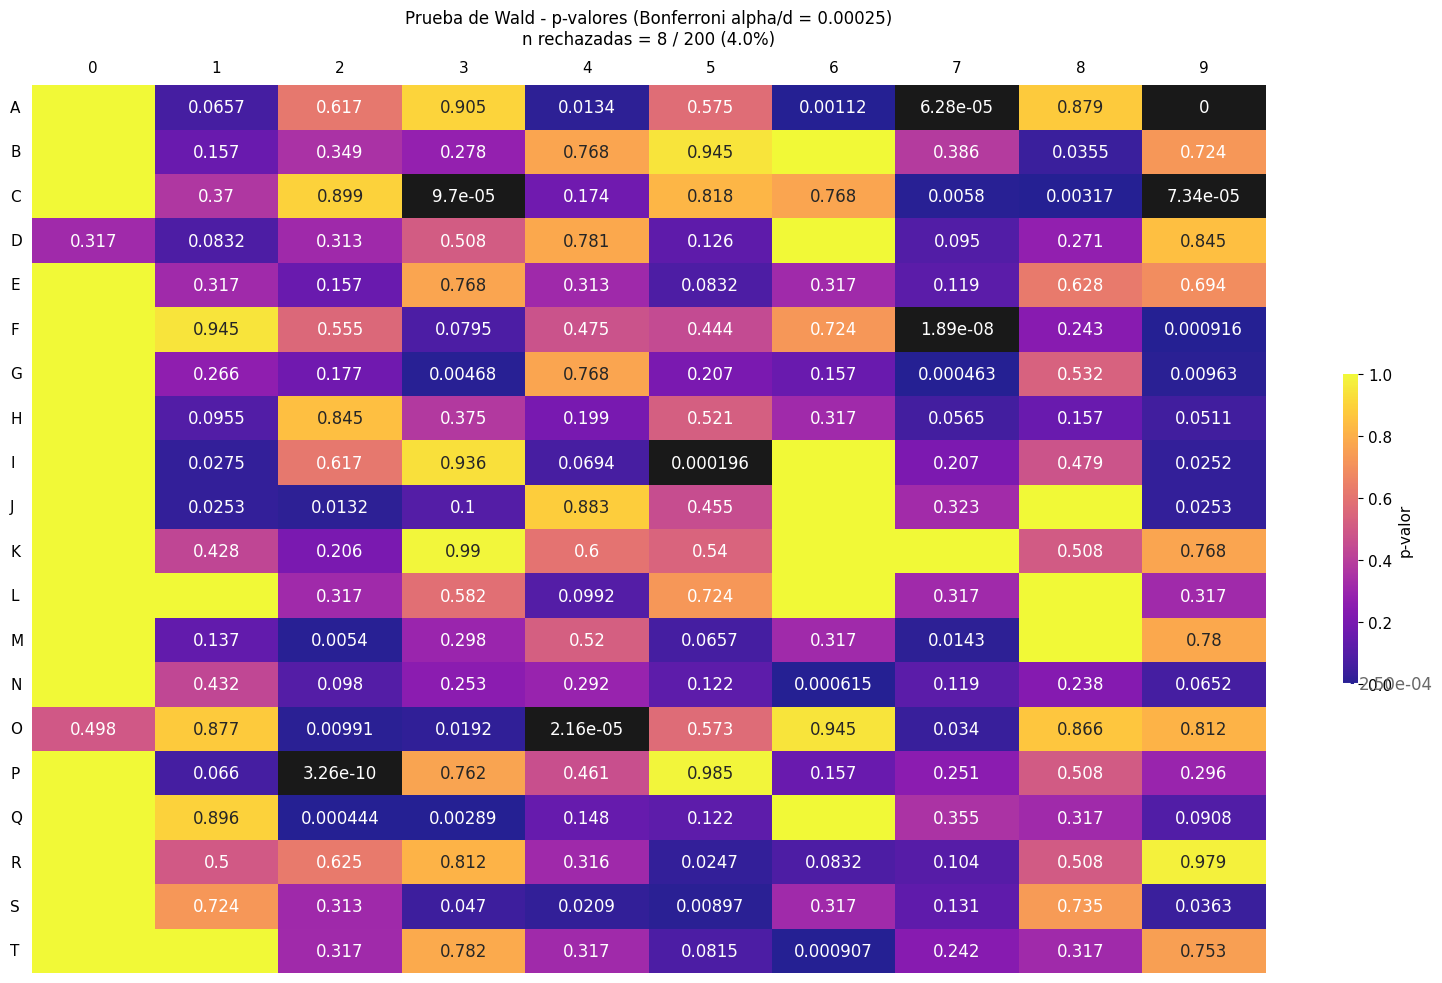
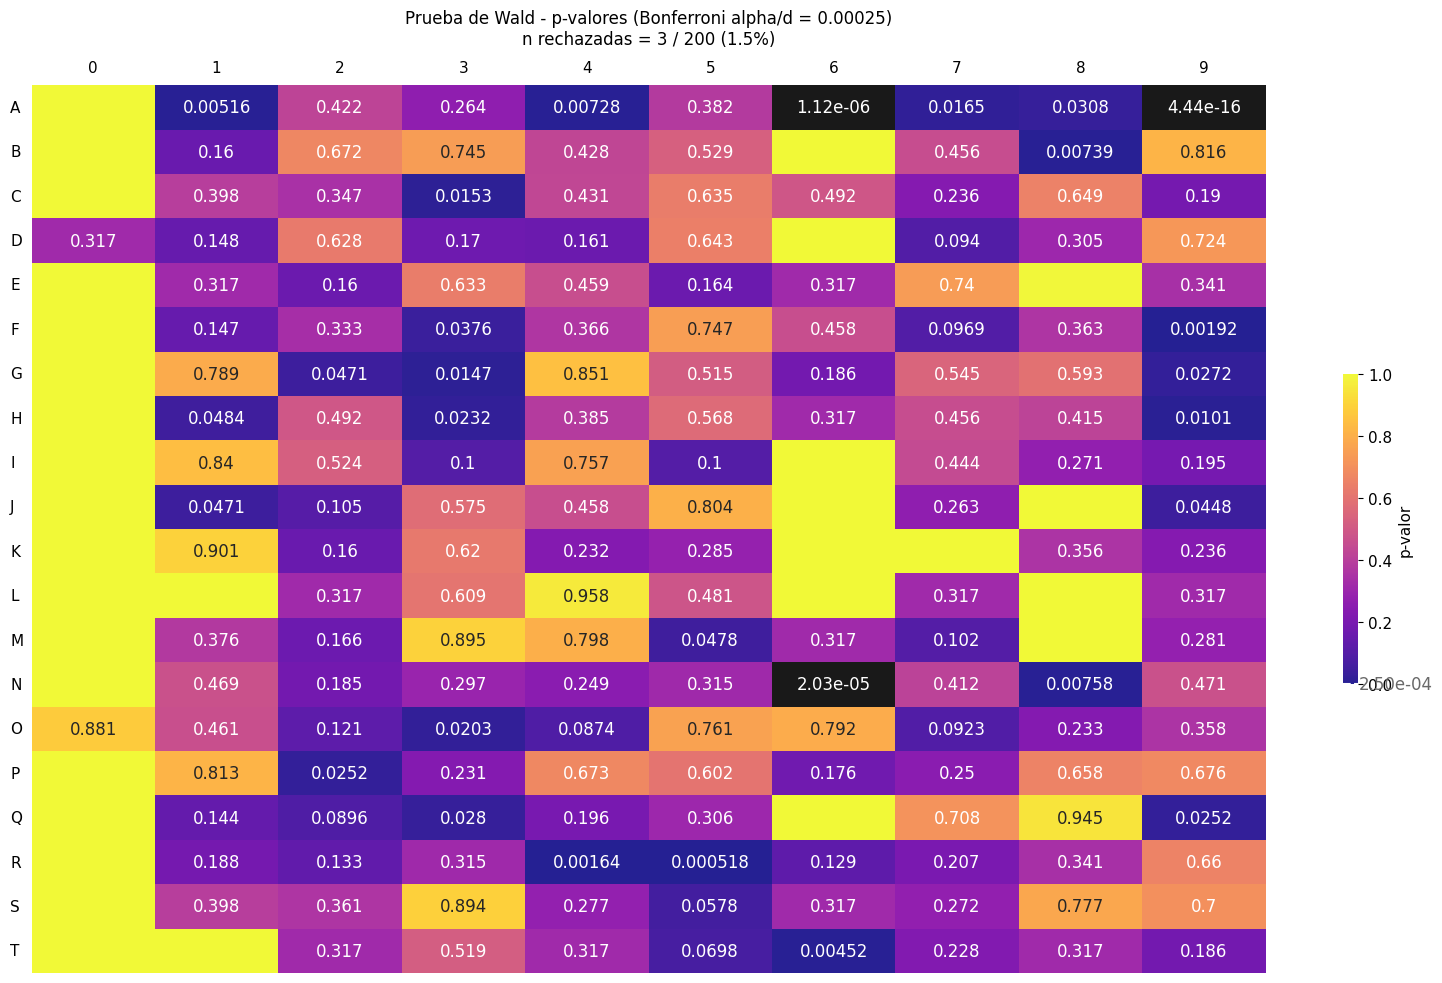
Add weighted Wald test functions and update log output for p-values

diff --git a/scripts/04_walt_test.py b/scripts/04_walt_test.py
@@ -2,8 +2,126 @@ from typing import Any
 from scripts import *
 import matplotlib.pyplot as plt
 import pandas as pd
+import numpy as np
+from scipy import stats
 
 snakemake: Any
+
+
+def weighted_wald_test_comparison_proportions(
+	df1: pd.DataFrame,
+	df2: pd.DataFrame,
+	caes_col: str,
+	ciuo_col: str,
+	weight_col: str,
+	rownames: list[str],
+	colnames: list[str],
+	alpha: float = 0.05,
+) -> dict:
+	n1 = df1[weight_col].sum()
+	n2 = df2[weight_col].sum()
+
+	print(f"Weighted sample sizes: n1={n1:.2f}, n2={n2:.2f}")
+
+	crosstab1 = pd.crosstab(
+		df1[caes_col], df1[ciuo_col], values=df1[weight_col], aggfunc="sum"
+	).fillna(0)
+	crosstab2 = pd.crosstab(
+		df2[caes_col], df2[ciuo_col], values=df2[weight_col], aggfunc="sum"
+	).fillna(0)
+
+	crosstab1 = crosstab1.reindex(index=rownames, columns=colnames, fill_value=0)
+	crosstab2 = crosstab2.reindex(index=rownames, columns=colnames, fill_value=0)
+
+	counts1 = crosstab1.to_numpy().astype(float)
+	counts2 = crosstab2.to_numpy().astype(float)
+
+	p1 = counts1 / n1
+	p2 = counts2 / n2
+
+	delta_hat = p1 - p2
+
+	w2_1 = df1[weight_col] ** 2
+	df1_w2 = df1.assign(**{weight_col: w2_1})
+	crosstab1_w2 = pd.crosstab(
+		df1_w2[caes_col], df1_w2[ciuo_col], values=df1_w2[weight_col], aggfunc="sum"
+	).fillna(0)
+	crosstab1_w2 = crosstab1_w2.reindex(index=rownames, columns=colnames, fill_value=0)
+	w2_cell_1 = crosstab1_w2.to_numpy().astype(float)
+	w2_tot_1 = w2_1.sum()
+
+	var1 = ((1 - p1) ** 2 * w2_cell_1 + p1**2 * (w2_tot_1 - w2_cell_1)) / (n1**2)
+
+	w2_2 = df2[weight_col] ** 2
+	df2_w2 = df2.assign(**{weight_col: w2_2})
+	crosstab2_w2 = pd.crosstab(
+		df2_w2[caes_col], df2_w2[ciuo_col], values=df2_w2[weight_col], aggfunc="sum"
+	).fillna(0)
+	crosstab2_w2 = crosstab2_w2.reindex(index=rownames, columns=colnames, fill_value=0)
+	w2_cell_2 = crosstab2_w2.to_numpy().astype(float)
+	w2_tot_2 = w2_2.sum()
+
+	var2 = ((1 - p2) ** 2 * w2_cell_2 + p2**2 * (w2_tot_2 - w2_cell_2)) / (n2**2)
+
+	se = np.sqrt(var1 + var2)
+	se = np.where(se > 0, se, 1e-10)
+
+	W = delta_hat / se
+	p_values = 2 * (1 - stats.norm.cdf(np.abs(W)))
+
+	d = delta_hat.size
+	bonferroni_threshold = alpha / d
+	rejected = p_values < bonferroni_threshold
+
+	print("\n=== Wald Test Results (Weighted Proportions) ===")
+	print(f"Total number of tests (d): {d}")
+	print(f"Bonferroni threshold: {bonferroni_threshold:.2e}")
+	print(
+		f"Number of rejections: {np.sum(rejected)} ({100 * np.sum(rejected) / d:.2f}%)"
+	)
+	print(f"Mean |delta_hat|: {np.mean(np.abs(delta_hat)):.6f}")
+	print(f"Max |delta_hat|: {np.max(np.abs(delta_hat)):.6f}")
+	print(f"Mean p-value: {np.mean(p_values):.4f}")
+	print(f"Min p-value: {np.min(p_values):.2e}")
+
+	return {
+		"delta_hat": delta_hat, "se": se, "W": W, "p_values": p_values,
+		"bonferroni_threshold": bonferroni_threshold, "rejected": rejected,
+		"n1": n1, "n2": n2, "p1": p1, "p2": p2, "counts1": counts1, "counts2": counts2,
+	}
+
+
+def weighted_bootstrap_se(
+	df1: pd.DataFrame, df2: pd.DataFrame, caes_col: str, ciuo_col: str,
+	weight_col: str, rownames: list[str], colnames: list[str],
+	B: int = 1000, seed: int = 28,
+) -> np.ndarray:
+	deltas = np.zeros((B, len(rownames), len(colnames)))
+
+	prob1 = df1[weight_col] / df1[weight_col].sum()
+	prob2 = df2[weight_col] / df2[weight_col].sum()
+
+	n1 = len(df1)
+	n2 = len(df2)
+
+	for b in range(B):
+		s1 = df1.sample(n=n1, replace=True, weights=prob1, random_state=seed + 2 * b)
+		s2 = df2.sample(n=n2, replace=True, weights=prob2, random_state=seed + 2 * b + 1)
+
+		ct1 = (
+			pd.crosstab(s1[caes_col], s1[ciuo_col])
+			.reindex(index=rownames, columns=colnames, fill_value=0)
+			.to_numpy(dtype=float)
+		)
+		ct2 = (
+			pd.crosstab(s2[caes_col], s2[ciuo_col])
+			.reindex(index=rownames, columns=colnames, fill_value=0)
+			.to_numpy(dtype=float)
+		)
+
+		deltas[b] = ct1 / n1 - ct2 / n2
+
+	return deltas.std(axis=0, ddof=1)
 
 
 def main() -> None:
@@ -75,26 +193,38 @@ def main() -> None:
 	)
 
 	alpha = 0.05
-	test_results = dl.wald_test_comparison_proportions(
-		df_2019,
-		df_2021,
-		caes_col,
-		ciuo_col,
-		rownames,
-		colnames,
-		alpha=alpha,
-	)
-
 	bootstrap_B = 1000
-	se_boot = dl.bootstrap_se(
-		df_2019,
-		df_2021,
-		caes_col,
-		ciuo_col,
-		rownames,
-		colnames,
-		B=bootstrap_B,
-	)
+
+	if "ponderation" in df_2019.columns and "ponderation" in df_2021.columns:
+		print("Using weighted proportions and weighted bootstrap (ponderation found).")
+		test_results = weighted_wald_test_comparison_proportions(
+			df_2019,
+			df_2021,
+			caes_col,
+			ciuo_col,
+			"ponderation",
+			rownames,
+			colnames,
+			alpha=alpha,
+		)
+		se_boot = weighted_bootstrap_se(
+			df_2019,
+			df_2021,
+			caes_col,
+			ciuo_col,
+			"ponderation",
+			rownames,
+			colnames,
+			B=bootstrap_B,
+		)
+	else:
+		print("Using unweighted proportions and unweighted bootstrap (ponderation missing).")
+		test_results = dl.wald_test_comparison_proportions(
+			df_2019, df_2021, caes_col, ciuo_col, rownames, colnames, alpha=alpha,
+		)
+		se_boot = dl.bootstrap_se(
+			df_2019, df_2021, caes_col, ciuo_col, rownames, colnames, B=bootstrap_B,
+		)
 
 	# Extract first digit labels for better readability in plots
 	rownames_plot = [label.split(".")[0] for label in rownames]
@@ -193,23 +323,30 @@ def main() -> None:
 		],
 	)
 
-	rejected_count = int(test_results["rejected"].sum())
-	if rejected_count > 0:
-		rejected_df = pvalue_detailed.loc[
-			pvalue_detailed["rejected"],
-			[caes_col, ciuo_col, "delta_hat", "se_boot", "p_value", "sig"],
-		].sort_values([caes_col, ciuo_col], ascending=True, kind="mergesort")
+	top5_df = pvalue_detailed.head(5).sort_values("p_value", ascending=True)
 
-		log_lines.append("")
-		log_lines.append("REJECTED PAIRS (NULL HYPOTHESIS REJECTED):")
-		log_lines.append(rejected_df.to_string(index=False))
-		log_lines.append("")
-		log_lines.append(
-			"Note: Significance stars indicate levels of significance after Bonferroni correction."
-		)
-	else:
-		log_lines.append("")
-		log_lines.append("No pairs rejected (all p-values above Bonferroni threshold).")
+	latex_lines = [
+		r"\begin{tabular}{llrrrl}",
+		r"\toprule",
+		r"\textbf{\gls{caes}} & \textbf{\gls{ciuo}} & \textbf{$\hat{\delta}$} &",
+		r"\textbf{SE boot} & \textbf{p-valor} & \textbf{sig.} \\",
+		r"\midrule"
+	]
+
+	for _, row in top5_df.iterrows():
+		latex_lines.append(f"{row[caes_col]} &")
+		latex_lines.append(f"{row[ciuo_col]} & {row['delta_hat']:.6f} & {row['se_boot']:.6f} & {row['p_value']:e} & {row['sig']} \\\\")
+
+	latex_lines.append(r"\bottomrule")
+	latex_lines.append(r"\end{tabular}%")
+
+	log_lines.append("")
+	log_lines.append("TOP 5 LOWEST P-VALUES (LATEX):")
+	log_lines.extend(latex_lines)
+	log_lines.append("")
+	log_lines.append(
+		"Note: Significance stars indicate levels of significance after Bonferroni correction."
+	)
 
 	log_path = snakemake.log[0] if hasattr(snakemake, "log") and snakemake.log else None
 	log.write_log(log_lines, log_path)